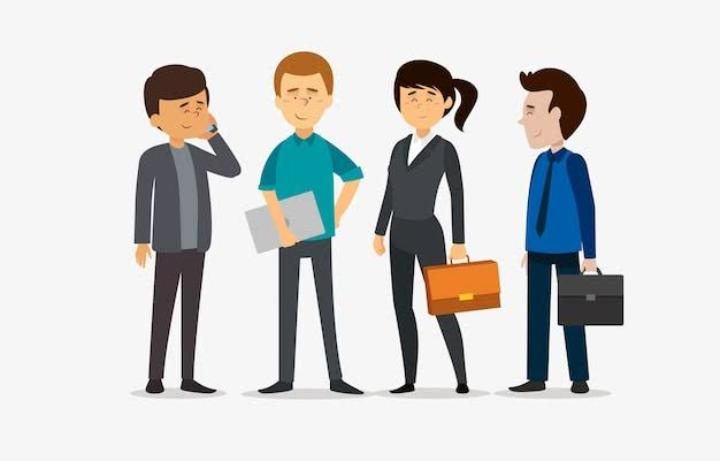
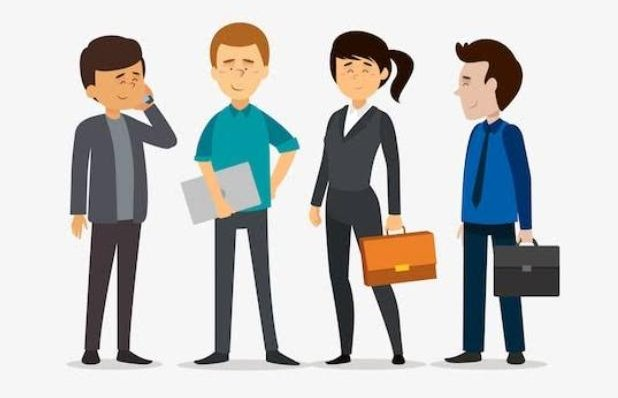
Live Project

diff --git a/src/components/Career.jsx b/src/components/Career.jsx
@@ -22,7 +22,7 @@ const CareersPage = () => {
           <img
             src={Image}
             alt="Team illustration"
-            className="w-auto h-auto"
+            className="w-80 h-50"
           />
         </div>
       </div>
@@ -37,7 +37,7 @@ const CareersPage = () => {
         {[1, 2, 3].map((job, index) => (
           <div key={index} className="border-b border-gray-300 pb-4">
             <div className="bg-white flex justify-between items-center  hover:bg-blue-950  hover:text-white ">
-              <span className="font-medium px-2 py-2">Job Title : Software Engineer</span>
+              <span className="font-medium px-3 py-4">Job Title : Software Engineer</span>
               <button
                 onClick={() => toggleDropdown(index)}
                 className="text-gray-600 px-4 py-2 rounded-lg hover:bg-blue-950 transition"
